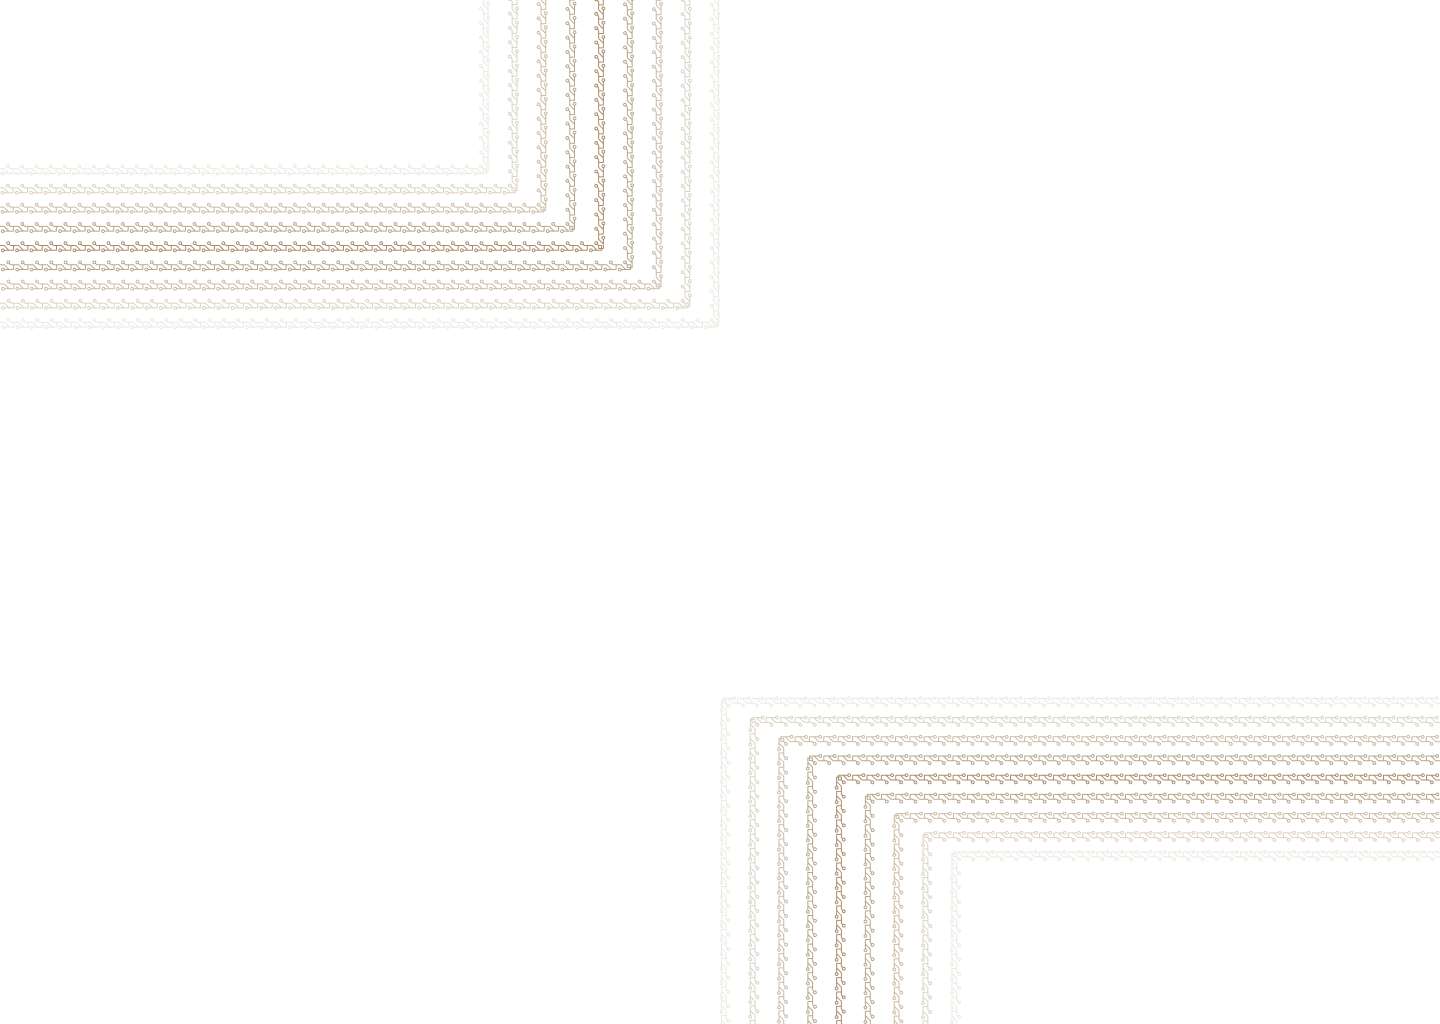
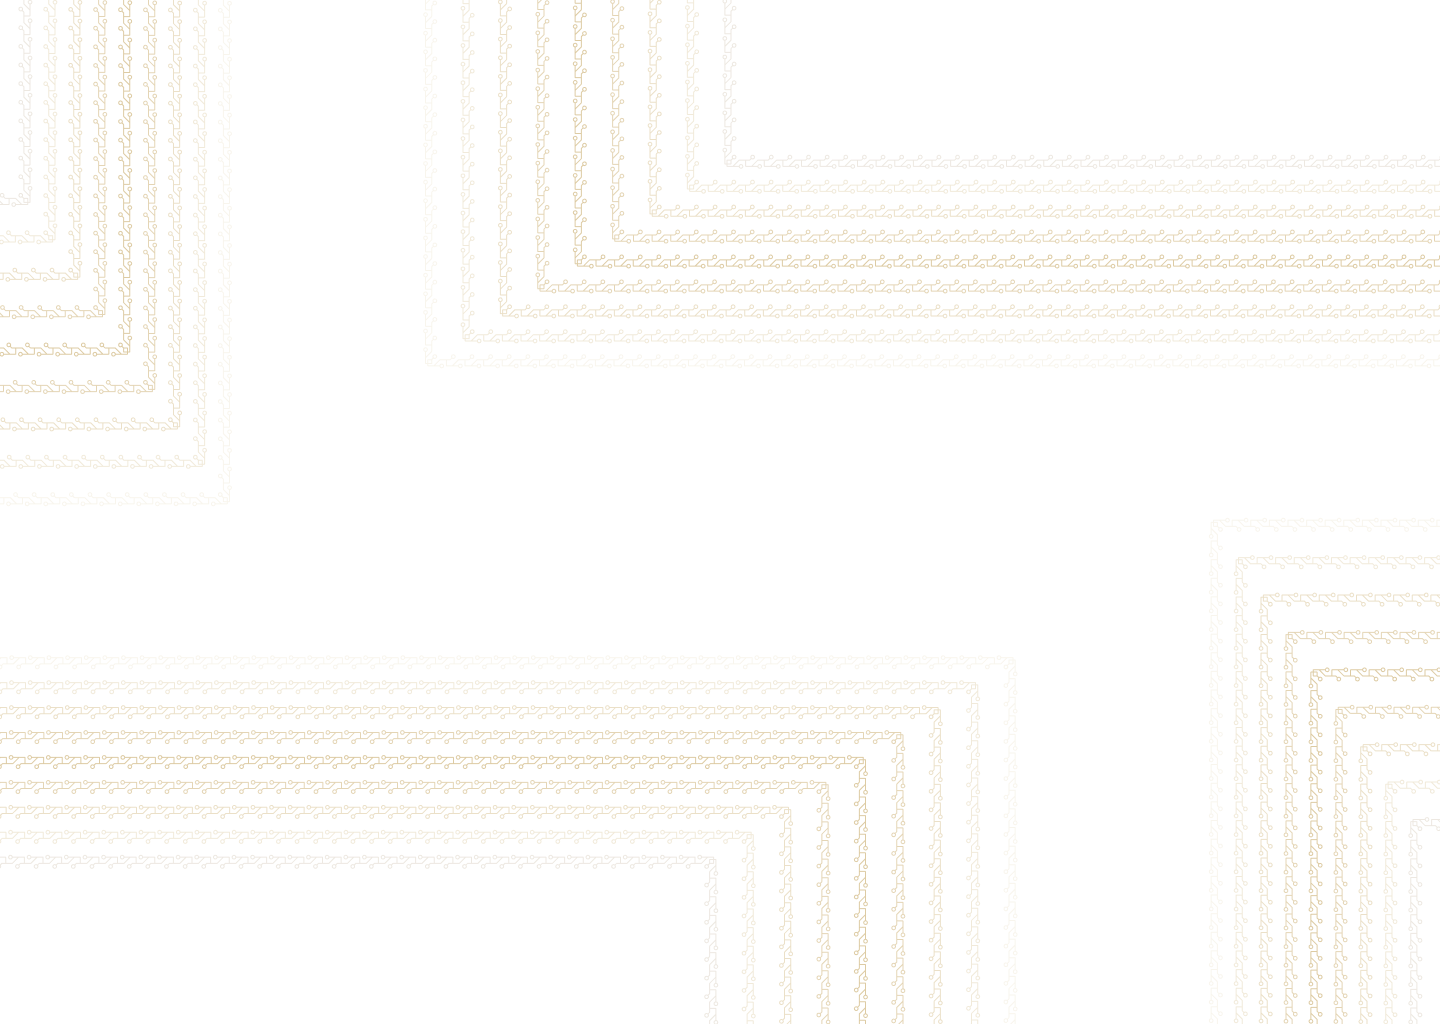
Aesthetic changes to social preview, hero bg image, and footer.

Changed region(s): [[0.0, 0.5625, 1.0, 1.0], [0.0, 0.0, 1.0, 0.4375]]

diff --git a/_sass/design/md/_shape.scss b/_sass/design/md/_shape.scss
@@ -17,16 +17,19 @@
 :root {
   /* Fully rounded */
   --md-sys-shape-corner-full-family: 3px;
+  
   /* Extra large top rounding */
   --md-sys-shape-corner-extra-large-top-family: 1px;
   --md-sys-shape-corner-extra-large-top-default-size: 0px;
   --md-sys-shape-corner-extra-large-top-top-left: 28px;
   --md-sys-shape-corner-extra-large-top-top-right-unit: 1px;
   --md-sys-shape-corner-extra-large-top-top-right: 28px;
+
   /* Extra large rounding */
   --md-sys-shape-corner-extra-large-family: 1px;
   --md-sys-shape-corner-extra-large-default-size-unit: 1px;
   --md-sys-shape-corner-extra-large-default-size: 28px;
+
   /* Large top rounding */
   --md-sys-shape-corner-large-top-family: 1px;
   --md-sys-shape-corner-large-top-default-size-unit: 1px;
@@ -35,6 +38,7 @@
   --md-sys-shape-corner-large-top-top-left: 16px;
   --md-sys-shape-corner-large-top-top-right-unit: 1px;
   --md-sys-shape-corner-large-top-top-right: 16px;
+
   /* Large end rounding */
   --md-sys-shape-corner-large-end-family: 1px;
   --md-sys-shape-corner-large-end-default-size-unit: 1px;
@@ -43,18 +47,22 @@
   --md-sys-shape-corner-large-end-top-right: 16px;
   --md-sys-shape-corner-large-end-bottom-right-unit: 1px;
   --md-sys-shape-corner-large-end-bottom-right: 16px;
+
   /* Large rounding */
   --md-sys-shape-corner-large-family: 1px;
   --md-sys-shape-corner-large-default-size-unit: 1px;
   --md-sys-shape-corner-large-default-size: 16px;
+
   /* Medium rounding */
   --md-sys-shape-corner-medium-family: 1px;
   --md-sys-shape-corner-medium-default-size-unit: 1px;
   --md-sys-shape-corner-medium-default-size: 12px;
+
   /* Small rounding */
   --md-sys-shape-corner-small-family: 1px;
   --md-sys-shape-corner-small-default-size-unit: 1px;
   --md-sys-shape-corner-small-default-size: 8px;
+
   /* Extra small top rounding */
   --md-sys-shape-corner-extra-small-top-family: 1px;
   --md-sys-shape-corner-extra-small-top-default-size-unit: 1px;
@@ -63,10 +71,12 @@
   --md-sys-shape-corner-extra-small-top-top-left: 4px;
   --md-sys-shape-corner-extra-small-top-top-right-unit: 1px;
   --md-sys-shape-corner-extra-small-top-top-right: 4px;
+
   /* Extra small rounding */
   --md-sys-shape-corner-extra-small-family: 1px;
   --md-sys-shape-corner-extra-small-default-size-unit: 1px;
   --md-sys-shape-corner-extra-small-default-size: 4px;
+
   /* No rounding */
   --md-sys-shape-corner-none-family: 1px;
   --md-sys-shape-corner-none-default-size-unit: 1px;

diff --git a/_layouts/default.html b/_layouts/default.html
@@ -105,7 +105,7 @@
     <!-- Closing CTA — suppressed via hide_cta front matter (e.g. intake) -->
     {% unless page.hide_cta %}{% include cta.html %}{% endunless %}
     {% include footer.html %}
-    <svg class="c-site-effects" aria-hidden="true" focusable="false" xmlns="http://www.w3.org/2000/svg">
+    <!-- <svg class="c-site-effects" aria-hidden="true" focusable="false" xmlns="http://www.w3.org/2000/svg">
       <defs>
         <filter id="background-displacement" x="-25%" y="-25%" width="150%" height="150%">
           <feTurbulence type="fractalNoise" baseFrequency="0.008 0.013" numOctaves="3" seed="3" result="background-noise" />
@@ -113,7 +113,7 @@
             xChannelSelector="R" yChannelSelector="G" />
         </filter>
       </defs>
-    </svg>
+    </svg> -->
     <script defer src="{{ '/assets/js/search.js' | relative_url }}"></script>
     <script src="{{ '/assets/js/main.js' | relative_url }}?v={{ site.time | date: '%s' }}"></script>
     <script defer src="{{ '/assets/js/noise.js' | relative_url }}?v={{ site.time | date: '%s' }}"></script>
